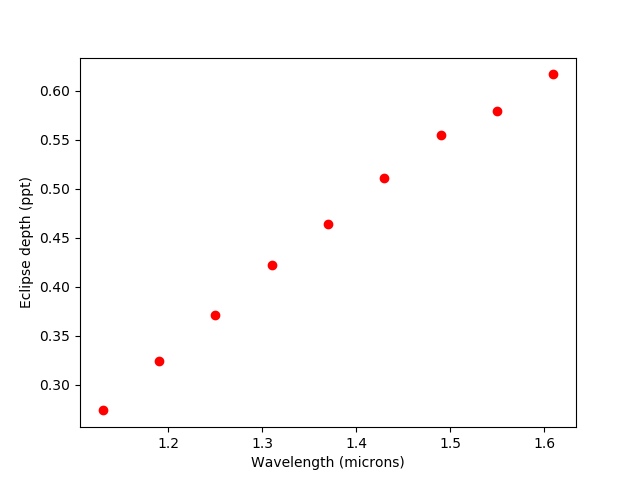
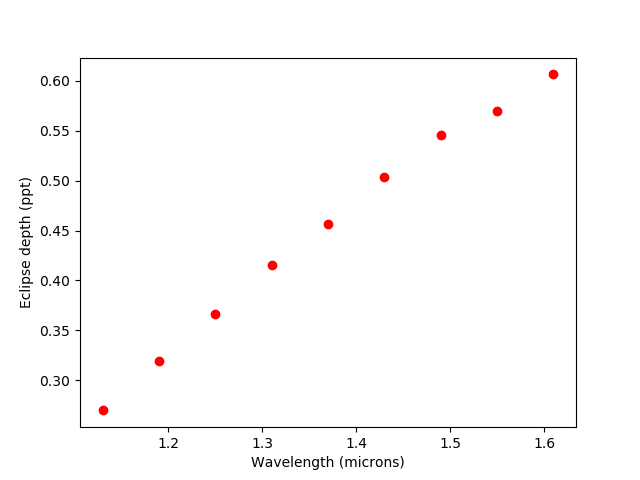
docs

diff --git a/spiderman/params.py b/spiderman/params.py
@@ -457,6 +457,13 @@ class ModelParams(object):
 
 		return np.array(out)
 
+	def total_luminosity(self,planet_radius,stellar_grid=False,reflection=False):
+		# CHANGE THIS - shouldn't really use the output of get_planet because of limb darkening
+
+		p1,p2 = self.phase_brightness([0,0.5],stellar_grid=stellar_grid,reflection=reflection,planet_radius=planet_radius)
+		return(p1+p2)
+
+
 	def phase_brightness(self,phases,stellar_grid=False,reflection=False,planet_radius=False):
 
 		if self.thermal == True:
@@ -513,6 +520,13 @@ class ModelParams(object):
 
 			brights = planet[:,16]
 			areas = planet[:,15]
+			inner = planet[:,13]
+			outer = planet[:,14]
+
+			avg_dist = ((inner + outer)/2)*np.pi/2
+			avg_dist[0] = 0.0
+
+			norm = np.sqrt(np.cos(avg_dist))
 
 			min_bright = np.min(brights)
 			max_bright = np.max(brights)
@@ -520,9 +534,9 @@ class ModelParams(object):
 			if planet_radius == False:
 				out = np.sum(brights*areas)/np.pi
 			else:
-				out = np.sum(brights*areas)*planet_radius**2
+				out = np.sum(brights*areas/norm)*planet_radius**2
 
-			out_list += [np.sum(brights*areas)/np.pi]
+			out_list += [out]
 
 #			out = _web.lightcurve(self.n_layers,t,0.0,1.0,self.a_abs,self.inc,0.0,0.0,self.a,self.rp,self.p_u1,self.p_u2,self.brightness_type,brightness_params,teffs,totals,len(totals),0)[0] - 1.0
 #			out_list += [out]

diff --git a/c_src/generate.c b/c_src/generate.c
@@ -249,9 +249,7 @@ double **generate_planet(int n_layers){
         int nslice = pow((i+1),2) - pow((i),2);
         double increment = 2.0*M_PI/nslice;
         // the starting point is arbitrary and doesn't matter.//
-        // But this looks cooler.//
 //        double theta = increment/2;
-// but it makes collision detection harder...
         double theta = 0.0;
         for (int j = 0; j < nslice; ++j) {
             

diff --git a/docs/plotting.rst b/docs/plotting.rst
@@ -55,6 +55,9 @@ This method can be used to quickly generate an occultation spectrum of the depth
 		mid_wvl = min_wvl + wvl_step*(i+0.5)
 		d = spider_params.eclipse_depth()
 		plt.plot(mid_wvl*1e6,d*1000,'ro')
+	
+	plt.xlabel('Wavelength (microns)')
+	plt.ylabel('Eclipse depth (ppt)')
 
 .. figure:: images/simple_spectrum.png
     :width: 800px
@@ -64,4 +67,51 @@ This method can be used to quickly generate an occultation spectrum of the depth
 
 Some caution must be used with this method, as it only returns the *blocked light* relative to the stellar brightness at the specified phase - so for an example, if you were to specify a grazing transit you would not recieve the total flux of the dayside.
 
-If you do want the total flux of the planet from a specific phase, you can instead use the "phase_brightness" method. Using this method you could calulate an emission spectrum
+If you do want the total flux of the planet from a specific phase, you can instead use the "phase_brightness" method. Using this method you can calulate the emission spectrum of the planet in *physical units* at the phase of your choosing, it is called in a similar way to eclipse_depth, but has an optional phase argument which can accept either a single phase value or a list. You can provide a planet radius to recieve the total band luminosity of the visible hemisphere in Watts, if this is not given then an average surface intensity will be returned.
+
+.. code-block:: python
+	mid_wvls = []
+	p1s = []
+	p2s = []
+	p3s = []
+	p4s = []
+
+	for i in range(0,steps-1):
+		spider_params.l1 = min_wvl + wvl_step*i
+		spider_params.l2 = min_wvl + wvl_step*(i+1)
+
+		mid_wvl = min_wvl + wvl_step*(i+0.5)
+		mid_wvls += [mid_wvl*1e6]
+
+		p1, p2, p3, p4 = spider_params.phase_brightness([0.0,0.25,0.5,0.75],planet_radius=6.9911e7)
+
+		p1s += [p1]
+		p2s += [p2]
+		p3s += [p3]
+		p4s += [p4]
+
+	plt.plot(mid_wvls,p1s,'ro',label = '0')
+	plt.plot(mid_wvls,p2s,'bo',label = '0.25')
+	plt.plot(mid_wvls,p3s,'go',label = '0.5')
+	plt.plot(mid_wvls,p4s,'yo',label = '0.75')
+
+
+	plt.legend(title='Phase')
+	plt.xlabel('Wavelength (microns)')
+	plt.ylabel('Luminosity (W / sr)')
+
+.. figure:: images/phase_spectrum.png
+    :width: 800px
+    :align: center
+    :alt: alternate text
+    :figclass: align-center
+
+
+Finally, you can use the total_luminosity method to return the total band luminosity of the planet in the model in Watts, a planet radius in meters is required:
+
+.. code-block:: python
+	spider_params.l1 = 1.1e-6
+	spider_params.l2 = 1.7e-6
+	lum = spider_params.total_luminosity(10*6.9911e7)
+	print(lum)
+	>> 7.03802421799e+20
